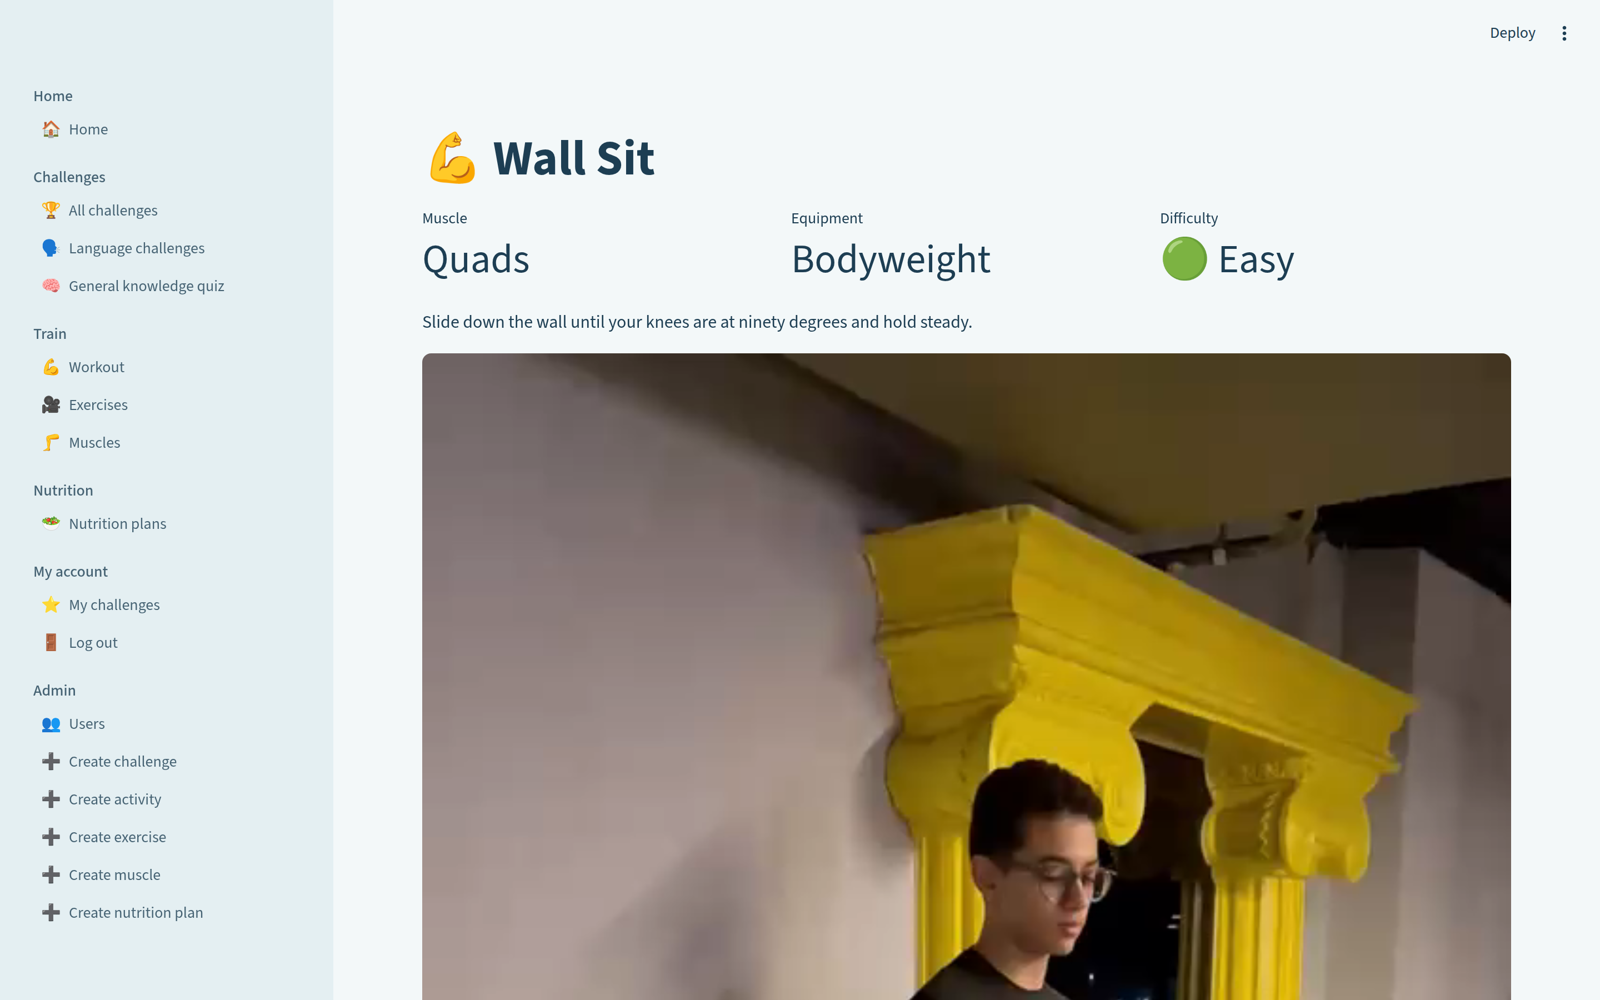
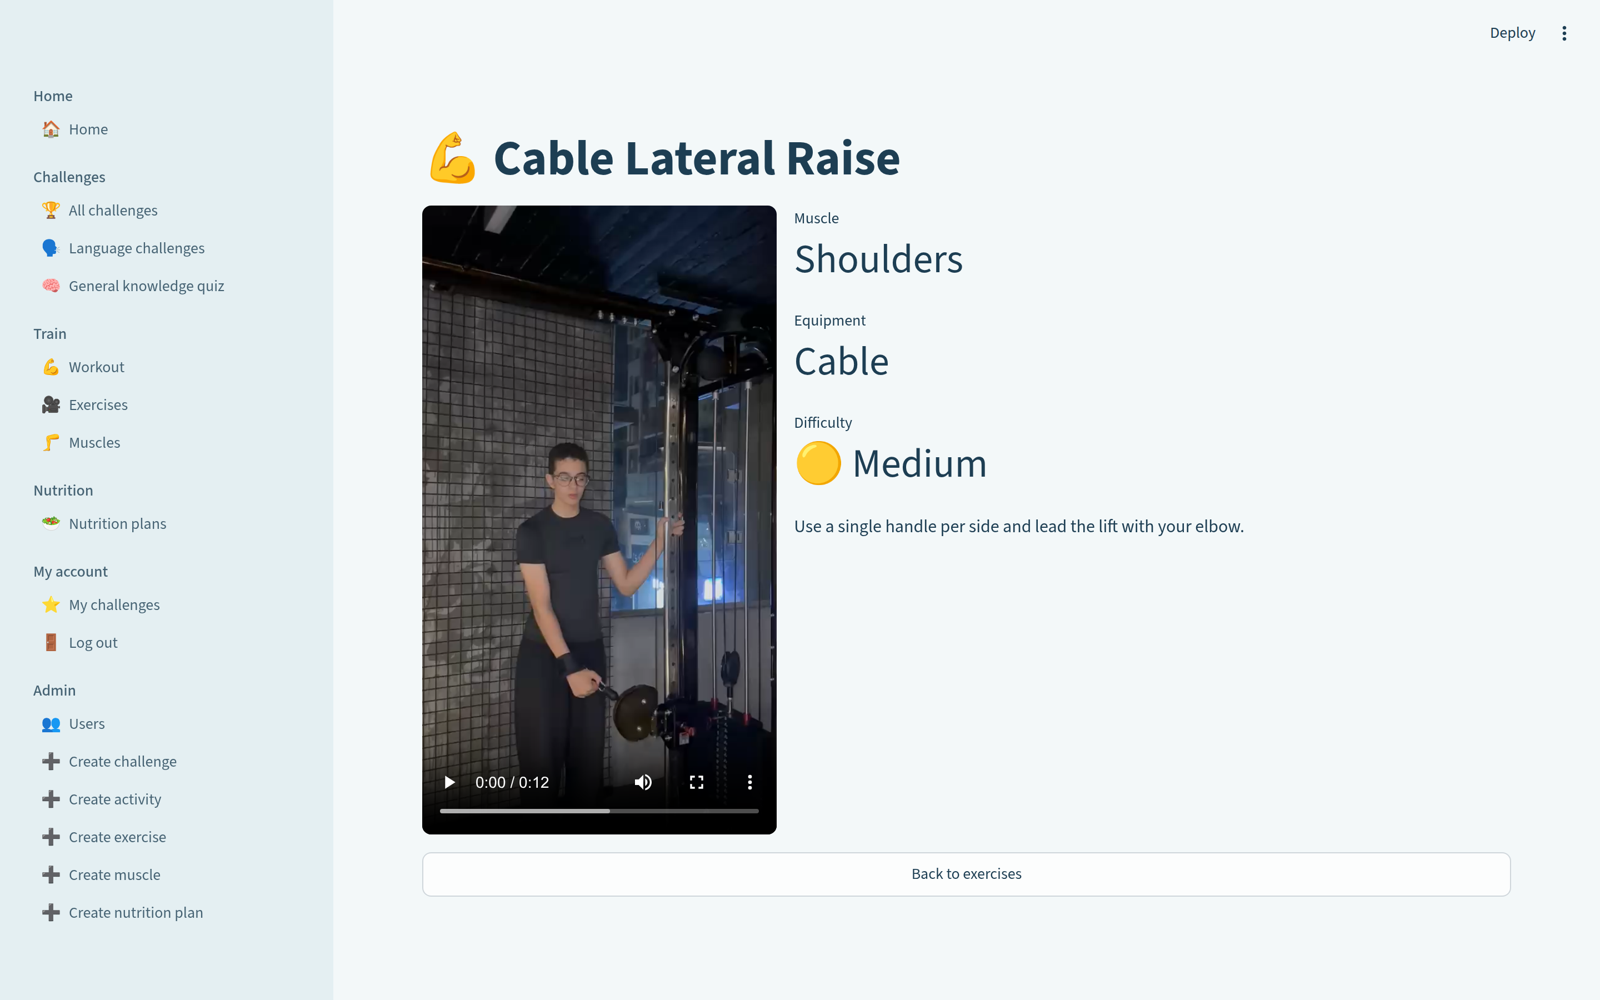
Fit images and videos to the page
- Exercise page: the video (tall phone recording) sits in a narrow
  left column with the facts beside it, so it fits on one screen.
- Challenge picture capped at 400px so flags stay sharp.
- Muscle pictures cropped once to 4:3, centred on the highlighted
  muscle, so the cards line up.
- Workout cards in one row of four.
- Joining a challenge reloads the page so the button disappears.
- Refresh the four affected doc screenshots.

closes #14

diff --git a/app_pages/challenge_details.py b/app_pages/challenge_details.py
@@ -2,6 +2,10 @@ import sqlite3
 import streamlit as st
 from assets.config import DATABASE_PATH, CATEGORY_IMAGES, CHALLENGE_IMAGES, LEVEL_ICONS
 
+# How wide the challenge picture is, in pixels. Our flag pictures are about 550 pixels wide,
+# so 400 keeps them sharp instead of stretching them across the whole page.
+IMAGE_WIDTH = 400
+
 
 def get_challenge_image(name, category):
     # A language challenge shows its country's flag; anything else shows its category picture.
@@ -28,7 +32,7 @@ if challenge is None:
     st.error("That challenge does not exist anymore.")
     st.stop()
 
-st.image(get_challenge_image(challenge["name"], challenge["category"]), width="stretch")
+st.image(get_challenge_image(challenge["name"], challenge["category"]), width=IMAGE_WIDTH)
 st.title(challenge["name"])
 
 col1, col2, col3 = st.columns(3)
@@ -49,6 +53,10 @@ if "user_id" in st.session_state:
 
     if joined:
         st.success("You joined this challenge. You can find it in My challenges.")
+        # Balloons only right after joining, not every time you open the page.
+        if st.session_state.get("just_joined"):
+            st.balloons()
+            st.session_state.just_joined = False
     elif st.button("Start challenge", type="primary", width="stretch"):
         conn = sqlite3.connect(DATABASE_PATH)
         conn.execute("PRAGMA foreign_keys = ON")
@@ -58,8 +66,9 @@ if "user_id" in st.session_state:
         )
         conn.commit()
         conn.close()
-        st.success("You joined this challenge!")
-        st.balloons()
+        # Reload the page so the button disappears and the "you joined" message shows.
+        st.session_state.just_joined = True
+        st.rerun()
 else:
     st.info("Log in to join this challenge.")
 

diff --git a/app_pages/exercise_details.py b/app_pages/exercise_details.py
@@ -22,18 +22,21 @@ if exercise is None:
 
 st.title("💪 " + exercise["name"])
 
-col1, col2, col3 = st.columns(3)
-col1.metric("Muscle", exercise["muscle_name"])
-col2.metric("Equipment", exercise["equipment"])
-col3.metric("Difficulty", LEVEL_ICONS[exercise["difficulty"]] + " " + exercise["difficulty"])
-
-if exercise["description"]:
-    st.write(exercise["description"])
-
-if exercise["video_url"]:
-    st.video(exercise["video_url"])
-else:
-    st.info("This exercise has no video yet.")
+# Our videos were filmed on a phone held upright, so they are tall and narrow.
+# A narrow column (1 part of 3) keeps the whole video on one screen, with the facts beside it.
+# On a phone the two columns stack.
+video_column, facts_column = st.columns([1, 2])
+with video_column:
+    if exercise["video_url"]:
+        st.video(exercise["video_url"])
+    else:
+        st.info("This exercise has no video yet.")
+with facts_column:
+    st.metric("Muscle", exercise["muscle_name"])
+    st.metric("Equipment", exercise["equipment"])
+    st.metric("Difficulty", LEVEL_ICONS[exercise["difficulty"]] + " " + exercise["difficulty"])
+    if exercise["description"]:
+        st.write(exercise["description"])
 
 if st.button("Back to exercises", width="stretch"):
     st.switch_page("app_pages/view_exercise.py")

diff --git a/app_pages/workout.py b/app_pages/workout.py
@@ -11,10 +11,10 @@ EQUIPMENT_TYPES = [
 st.title("💪 Your workout")
 st.caption("Choose what you have to train with")
 
-cols = st.columns(2)
+cols = st.columns(4)
 number = 0
 for equipment in EQUIPMENT_TYPES:
-    with cols[number % 2]:
+    with cols[number % 4]:
         with st.container(border=True):
             st.image(equipment[1], width="stretch")
             st.subheader(equipment[2])

diff --git a/CLAUDE.md b/CLAUDE.md
@@ -28,7 +28,7 @@ No build step, tests, or linter. `requirements.txt` pins `streamlit==1.64.0`; ev
   ```
 
   The `PRAGMA` line is required on every connection or SQLite ignores foreign keys and `ON DELETE CASCADE`. Rows are read by column name (`row["name"]`).
-- Session keys: `user_id`, `username`, `is_admin` (set by `login.py`, cleared by `logout.py`), `selected_challenge_id`, `selected_exercise_id`, `equipment_filter` (the key of the Exercises page's selectbox, preset by `workout.py`), `quiz_level`, `quiz_questions`, `quiz_submitted`, `answer_<question id>`.
+- Session keys: `user_id`, `username`, `is_admin` (set by `login.py`, cleared by `logout.py`), `selected_challenge_id`, `just_joined` (shows balloons once after joining), `selected_exercise_id`, `equipment_filter` (the key of the Exercises page's selectbox, preset by `workout.py`), `quiz_level`, `quiz_questions`, `quiz_submitted`, `answer_<question id>`.
 - `assets/config.py`: `DATABASE_PATH`, `CATEGORY_IMAGES`, `CHALLENGE_IMAGES`, `LEVEL_ICONS`. Colours live in `.streamlit/config.toml`; there is no custom CSS.
 - Paths (`database/...`, `assets/...`, `videos/...`, also stored in `exercises.video_url` and `muscles.image_url`) are relative to the repo root.
 

diff --git a/ISSUES.md b/ISSUES.md
@@ -84,3 +84,18 @@ Status: closed
 - Stop tracking the `.claude/` and `.agents/` skill symlinks; they point into a local Python install.
 - The seed now has 7 challenges (3 Sports); the docs, the screenshot and the deck are updated to match.
 Status: closed
+
+## #14 [ui] Image and video sizes
+Every picture and video was drawn at full width:
+- The flag on a challenge page was stretched to about 980px and looked blurry.
+- The exercise video filled the whole screen.
+- The muscle pictures had 6 different shapes, so cards didn't line up.
+- Workout was a long 2-column page.
+Fix:
+- Exercise page: video on the left and facts on the right, in two columns (3:2).
+- Challenge picture: capped at 400px wide.
+- Muscle pictures: cropped once to 4:3.
+- Workout: all 4 cards in one row.
+The videos turned out to be tall phone recordings, so the video gets the narrow column (1:2) and fits on one screen.
+Also fixed: after "Start challenge", the button stayed on screen under the success message. The page now reloads after joining and shows the balloons once.
+Status: closed
